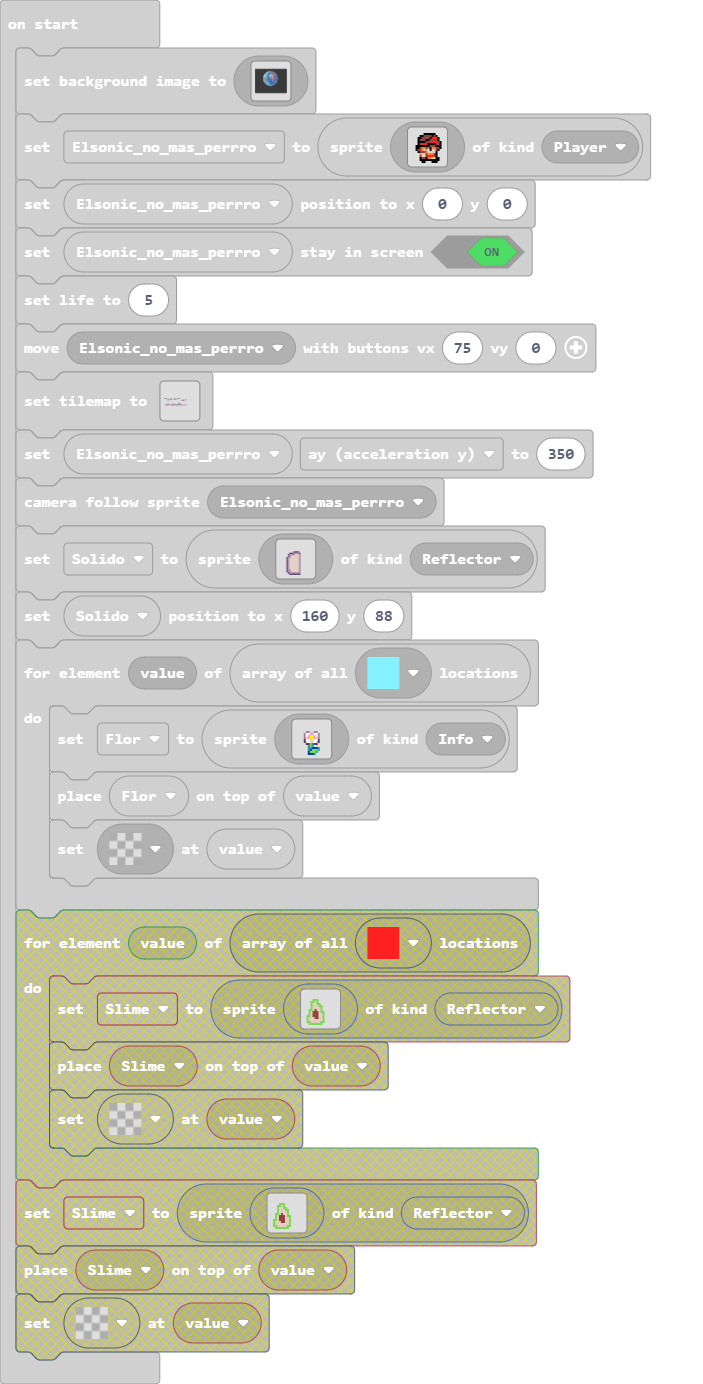
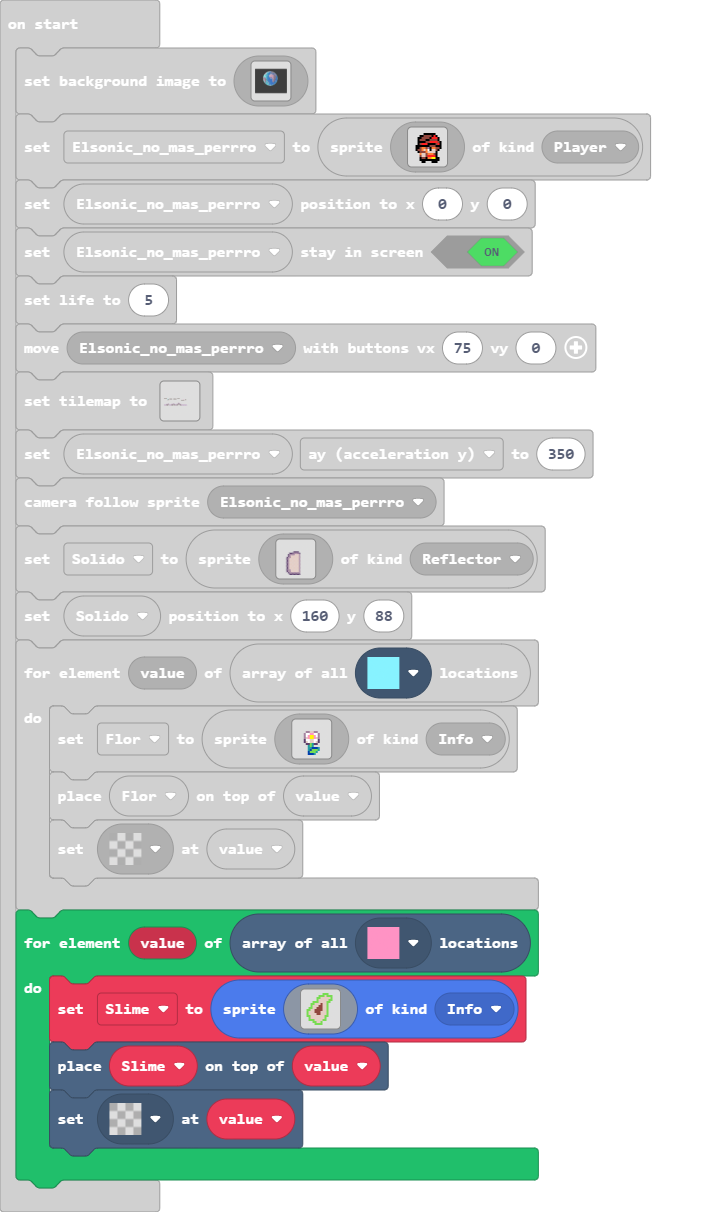
aguacate prueba

diff --git a/tilemap.g.ts b/tilemap.g.ts
@@ -8,11 +8,13 @@ namespace myTiles {
     export const tile2 = image.ofBuffer(hex``);
     //% fixedInstance jres blockIdentity=images._tile
     export const tile3 = image.ofBuffer(hex``);
+    //% fixedInstance jres blockIdentity=images._tile
+    export const tile4 = image.ofBuffer(hex``);
 
     helpers._registerFactory("tilemap", function(name: string) {
         switch(helpers.stringTrim(name)) {
             case "level1":
-            case "level1":return tiles.createTilemap(hex`320010000000000000000000000000000000000000000000000000000000000000000000000000000000000000000000000000000000000000000000000000000000000000000000000000000000000000000000000000000000000000000000000000000000000000000000000000000000000000000000000000000000000000000000000000000000000000000000000000000000000000000000000000000000000000000000000000000000000000000000000000000000000000000000000000000000000000000000000000000000000000000000000000000000000000000000000000000000000000000000000000000000000000000000000001010101010000000000000000000000000000000001010101000000000000000000000000000000000000000000000000000000000000000000000101010100000101010101000000000000000000000000000000000000000000000000000000000000000000000000010100000000000000000000000000000000000000000000000000010100000000000000000000000000000000000000000000000000000000000000000000000000000000000001010101010000000000000000000000000000000000000000000000000000000000000000000000000000000000000000000000000000000000000000000000000000000000000000000000000000000000000000000000000000000000000000000000000000000000000000000000000000000000000000000000000000000000000000000000000000000000000000000000000000000000000000000000000000000000000000000000000000000000000000000000000000000000000000000000020000000000000000000000000000000000000000000000000000000000000000000200000000000000020000000000000201020000000000000000000000000000000000000000000000000000000000020202010000000002020201020200000202010101020200000000000000000000000000000000000000000000000202020201010100020202020101010001010202010100000001010202020202020202020000000000000000000000000000`, img`
+            case "level1":return tiles.createTilemap(hex`320010000000000000000000000000000000000000000000000000000000000000000000000000000000000000000000000000000000000000000000000000000000000000000000000000000000000000000000000000000000000000000000000000000000000000000000000000000000000000000000000000000000000000000000000000000000000000000000000000000000000000000000000000000000000000000000000000000000000000000000000000000000000000000000000000000000000000000000000000000000000000000000000000000000000000000000000000000000000000000000000000000000000000000000000001010101010000000000000000000000000000000001010101000000000000000000000000000000000000000000000000000000000000000400000101010100000101010101000000000000000000000000000000000000000000000000000000000000000000000000010100000000000000000000000000000000000000000000030000010100000000000000000000000000000000000000000000000000000000000000000000000000000000000001010101010000000000000000000000000000000000000000000000000000000000000000000000000000000000000000000000000000000000000000000000000000000000000000000000000000000000000000000000000000000000000000000000000000000000000000000000000000000000000000000000000000000000000000000000000000000000000000000000000000000000000000000000000000000000000000000000000000000000000000000000000000000000000000000000020000000000000000000000000000000000000000000000000000000000000000000200000000000000020000000000000201020000000000000000000000000000000000000000000000000000000000020202010000000002020201020200000202010101020200000000000000000000000000000000000000000000000202020201010100020202020101010001010202010100000001010202020202020202020000000000000000000000000000`, img`
 ..................................................
 ..................................................
 ..................................................
@@ -29,7 +31,7 @@ namespace myTiles {
 ..................................................
 ..................................................
 ..................................................
-`, [myTiles.transparency16,myTiles.tile1,myTiles.tile2], TileScale.Sixteen);
+`, [myTiles.transparency16,myTiles.tile1,myTiles.tile2,myTiles.tile3,myTiles.tile4], TileScale.Sixteen);
         }
         return null;
     })
@@ -43,6 +45,8 @@ namespace myTiles {
             case "tile2":return tile2;
             case "myTile1":
             case "tile3":return tile3;
+            case "myTile2":
+            case "tile4":return tile4;
         }
         return null;
     })

diff --git a/main.ts b/main.ts
@@ -39,6 +39,7 @@ sprites.onOverlap(SpriteKind.Player, SpriteKind.Info, function (sprite, otherSpr
     otherSprite.destroy()
 })
 let reflexion: Sprite = null
+let Slime: Sprite = null
 let Flor: Sprite = null
 let Elsonic_no_mas_perrro: Sprite = null
 scene.setBackgroundImage(img`
@@ -214,7 +215,7 @@ let Solido = sprites.create(img`
     ....cccccccc....
     `, SpriteKind.Reflector)
 Solido.setPosition(160, 88)
-for (let value of tiles.getTilesByType(assets.tile`myTile3`)) {
+for (let value of tiles.getTilesByType(assets.tile`myTile2`)) {
     Flor = sprites.create(img`
         . . . . . . . . 
         . . . . . . . . 
@@ -234,5 +235,27 @@ for (let value of tiles.getTilesByType(assets.tile`myTile3`)) {
         . . 8 8 8 6 . . 
         `, SpriteKind.Info)
     tiles.placeOnTile(Flor, value)
+    tiles.setTileAt(value, assets.tile`transparency16`)
+}
+for (let value of tiles.getTilesByType(assets.tile`myTile1`)) {
+    Slime = sprites.create(img`
+        . . . . . . . . . 7 7 7 . . . . 
+        . . . . . . . 7 7 7 d 7 7 7 . . 
+        . . . . . . 7 7 d d d d d 7 . . 
+        . . . . . . 7 d d d d d 7 7 . . 
+        . . . . 7 7 7 d d d d 7 7 . . . 
+        . . . 7 7 d d d e d d 7 . . . . 
+        . . . 7 d d d e e d d 7 . . . . 
+        . . 7 7 d d e e e d d 7 . . . . 
+        . 7 7 d d e e e e d d 7 . . . . 
+        . 7 d d d e e e d d d 7 . . . . 
+        . 7 d d d d e e d d d 7 . . . . 
+        . 7 7 d d d d d d d 7 7 . . . . 
+        . . 7 d d d d d d d 7 . . . . . 
+        . . 7 7 7 d d d d 7 7 . . . . . 
+        . . . . 7 7 d d 7 . . . . . . . 
+        . . . . . 7 7 7 7 . . . . . . . 
+        `, SpriteKind.Info)
+    tiles.placeOnTile(Slime, value)
     tiles.setTileAt(value, assets.tile`transparency16`)
 }
